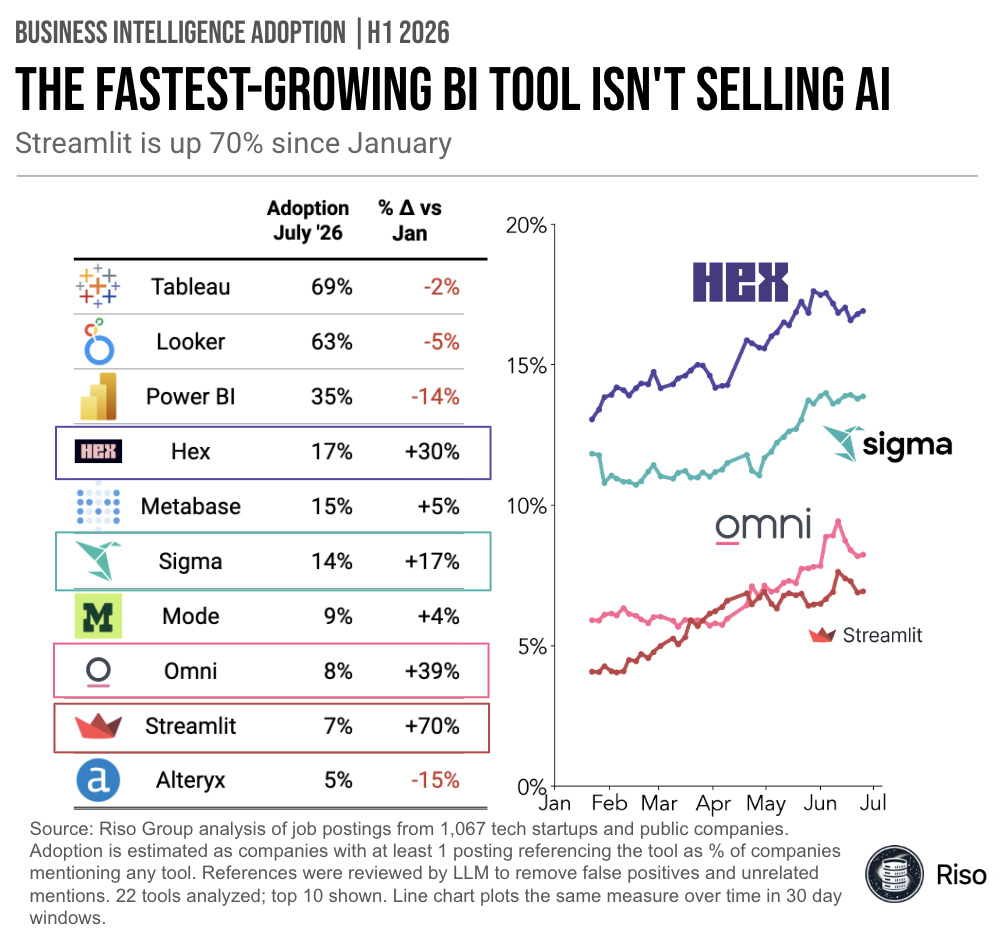
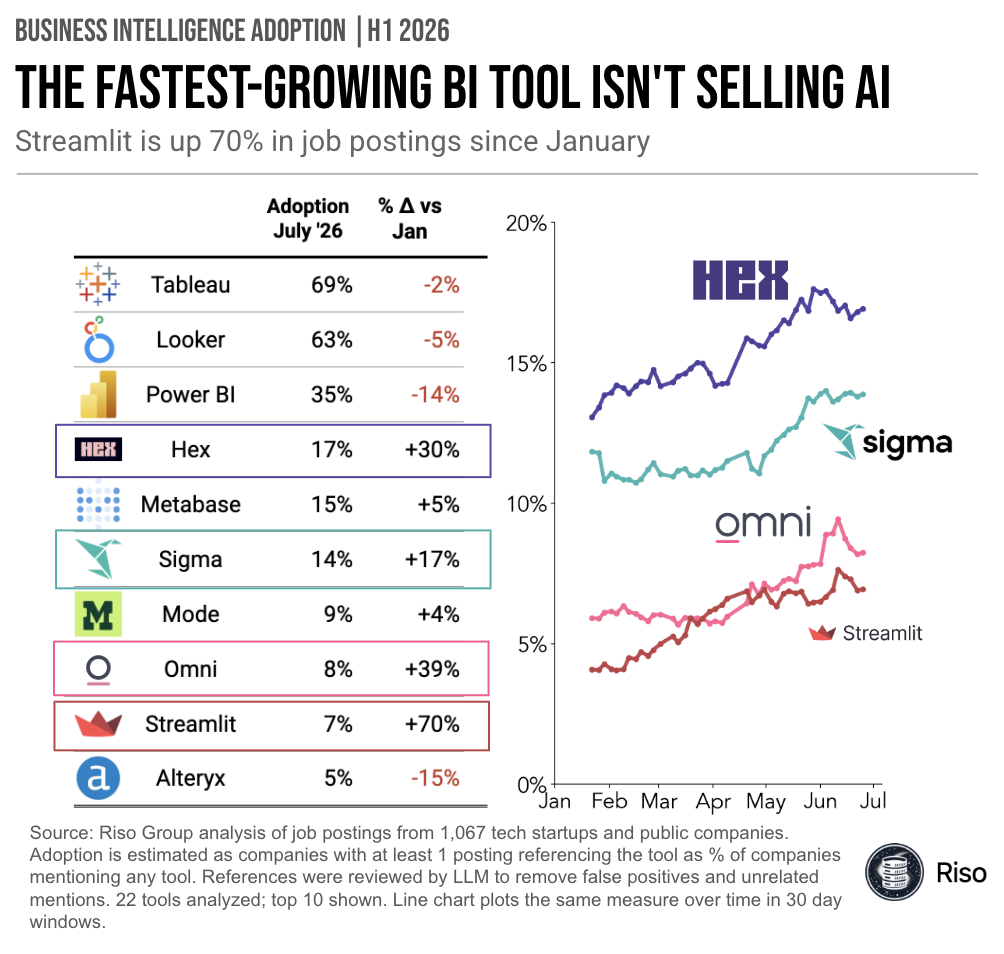
Editorial revisions to BI tools July 2026 post
- Final chart image (subtitle now reads "in job postings")
- Homepage: BI card moved to leftmost position in Featured Insights
- Card excerpts name Hex/Omni/Streamlit growth instead of the AI angle
- Cut the fourth key takeaway and the closing "keep checking in" line
- Section header: "Look at the taglines" -> "Spot the odd one out"
- Opening line anchored to the first half of 2026

Claude-Session: https://claude.ai/code/session_01QPxfnsmbf6q6Z6HrYf2eNe

diff --git a/index.html b/index.html
@@ -167,6 +167,23 @@
                 <!-- FEATURED INSIGHTS: These 3 cards are editorially curated. To change which insights appear, replace the card markup below. -->
                 <div class="row">
                     <div class="col-md-4 mb-4">
+                        <a href="insights/bi-tool-adoption-july-2026" class="text-decoration-none">
+                            <div class="card h-100 border-0 shadow-sm">
+                                <img src="insights/images/bi-tool-adoption-july-2026/bi-tool-adoption-july-2026.png" class="card-img-top" alt="Table and line chart of the top 10 BI tools by adoption in July 2026, with Streamlit up 70% since January" style="height: 200px; object-fit: cover; object-position: top;">
+                                <div class="card-body">
+                                    <h5 class="card-title text-dark mb-3">Top 10 BI Tools by Adoption: July 2026</h5>
+                                    <p class="card-text text-muted mb-3">Tableau and Looker still lead, but Hex (+30%), Omni (+39%), and Streamlit (+70%) grew fastest since January.</p>
+                                    <div class="d-flex align-items-center text-muted small">
+                                        <img src="static/images/jr_icon.png" alt="James Riso" style="width: 24px; height: 24px; border-radius: 50%; margin-right: 8px;">
+                                        <span>James Riso</span>
+                                        <span class="mx-2">&bull;</span>
+                                        <span>1 min read</span>
+                                    </div>
+                                </div>
+                            </div>
+                        </a>
+                    </div>
+                    <div class="col-md-4 mb-4">
                         <a href="insights/hiring-pulse-q1-2026" class="text-decoration-none">
                             <div class="card h-100 border-0 shadow-sm">
                                 <img src="insights/images/hiring-pulse-q1-2026/overall-trend.png" class="card-img-top" alt="Overall hiring trend chart showing ~9% growth in Q1 2026" style="height: 200px; object-fit: cover; object-position: center;">
@@ -195,23 +212,6 @@
                                         <span>James Riso</span>
                                         <span class="mx-2">&bull;</span>
                                         <span>7 min read</span>
-                                    </div>
-                                </div>
-                            </div>
-                        </a>
-                    </div>
-                    <div class="col-md-4 mb-4">
-                        <a href="insights/bi-tool-adoption-july-2026" class="text-decoration-none">
-                            <div class="card h-100 border-0 shadow-sm">
-                                <img src="insights/images/bi-tool-adoption-july-2026/bi-tool-adoption-july-2026.png" class="card-img-top" alt="Table and line chart of the top 10 BI tools by adoption in July 2026, with Streamlit up 70% since January" style="height: 200px; object-fit: cover; object-position: top;">
-                                <div class="card-body">
-                                    <h5 class="card-title text-dark mb-3">Top 10 BI Tools by Adoption: July 2026</h5>
-                                    <p class="card-text text-muted mb-3">Tableau and Looker still lead, but Streamlit is growing fastest at +70% since January, and it&rsquo;s the one not selling AI.</p>
-                                    <div class="d-flex align-items-center text-muted small">
-                                        <img src="static/images/jr_icon.png" alt="James Riso" style="width: 24px; height: 24px; border-radius: 50%; margin-right: 8px;">
-                                        <span>James Riso</span>
-                                        <span class="mx-2">&bull;</span>
-                                        <span>1 min read</span>
                                     </div>
                                 </div>
                             </div>

diff --git a/insights/bi-tool-adoption-july-2026.html b/insights/bi-tool-adoption-july-2026.html
@@ -134,12 +134,11 @@
                 <li>Streamlit grew fastest of any top 10 tool, up 70% since January to 7% adoption, and it&rsquo;s the only fast grower not marketing AI</li>
                 <li>Omni (+39%) and Hex (+30%) also climbed sharply. Hex is now the #4 tool overall at 17%, passing Metabase</li>
                 <li>Every incumbent slipped: Power BI -14%, Looker -5%, Tableau -2%. Tableau (69%) and Looker (63%) still lead by a wide margin</li>
-                <li>The four fastest growers are all VC-backed or Snowflake-owned. Three of them sell AI in the tagline. The fastest one doesn&rsquo;t.</li>
             </ul>
 
             <!-- Narrative -->
-            <h4 style="margin-top: 2rem;"><strong>Look at the taglines</strong></h4>
-            <p>Four of the top BI tools are growing fast, and one is not like the others. Just look at their website taglines:</p>
+            <h4 style="margin-top: 2rem;"><strong>Spot the odd one out</strong></h4>
+            <p>In the first half of 2026, four of the top BI tools grew fast, and one is not like the others. Just look at their website taglines:</p>
             <ul>
                 <li><strong>Hex</strong> and <strong>Omni</strong>: &ldquo;The AI Analytics Platform&rdquo; (really, both say it)</li>
                 <li><strong>Sigma</strong>: &ldquo;AI Runtime for Business&rdquo;</li>
@@ -157,7 +156,6 @@
                 <li>Agents from the frontier labs getting more capable, pushing adoption toward Streamlit and bespoke data apps, and bring-your-own tokens to analytics</li>
                 <li>Application companies (Hex, Sigma, Omni) beating general agents on analytics tasks, pulling adoption back to BI SaaS</li>
             </ul>
-            <p>I&rsquo;ll keep checking in on this market.</p>
         </div>
 
         <!-- Methodology -->

diff --git a/insights/index.html b/insights/index.html
@@ -196,7 +196,7 @@
                         <img src="images/bi-tool-adoption-july-2026/bi-tool-adoption-july-2026.png" alt="Table and line chart of the top 10 BI tools by adoption in July 2026, with Streamlit up 70% since January" class="insight-card-image">
                         <div class="insight-card-content">
                             <h3 class="insight-card-title">Top 10 BI Tools by Adoption: July 2026</h3>
-                            <p class="insight-card-excerpt">Tableau and Looker still lead, but Streamlit is growing fastest at +70% since January, and it&rsquo;s the one not selling AI.</p>
+                            <p class="insight-card-excerpt">Tableau and Looker still lead, but Hex (+30%), Omni (+39%), and Streamlit (+70%) grew fastest since January.</p>
                             <div class="insight-card-meta">
                                 <div class="insight-card-author">
                                     <img src="../static/images/jr_icon.png" alt="James Riso" class="insight-card-author-image">
